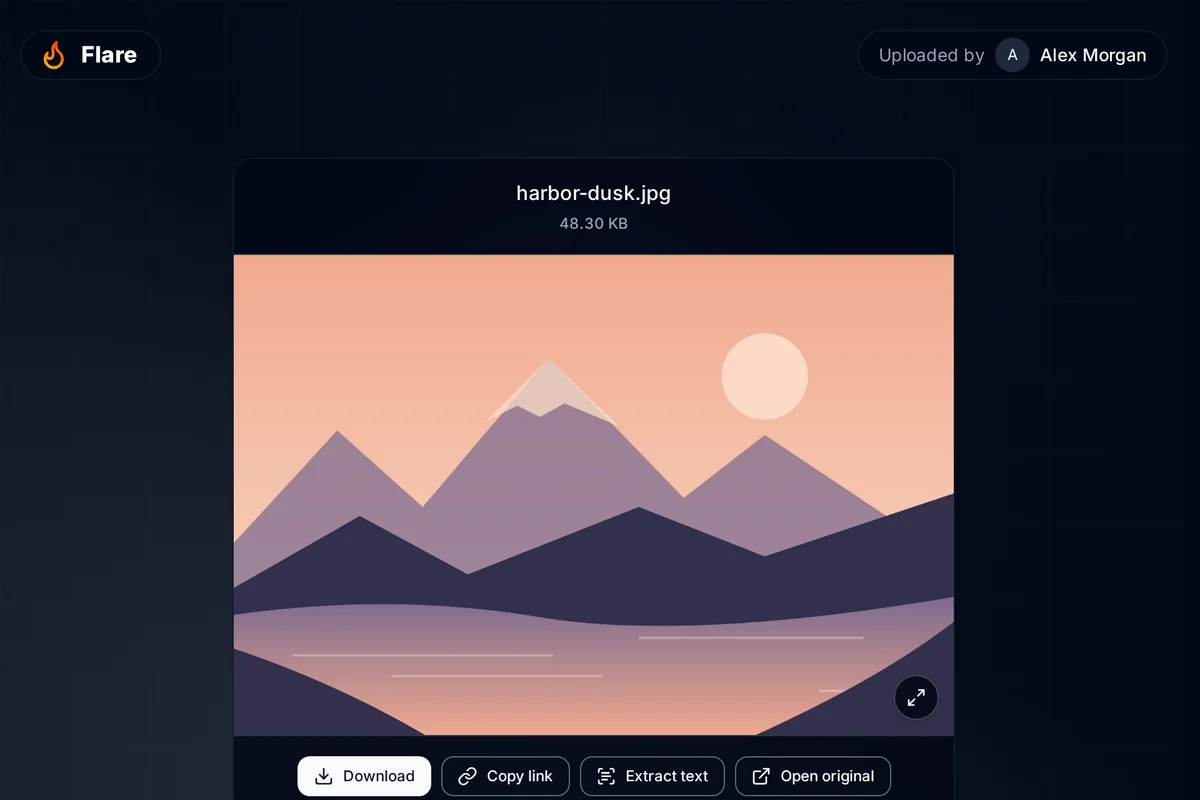
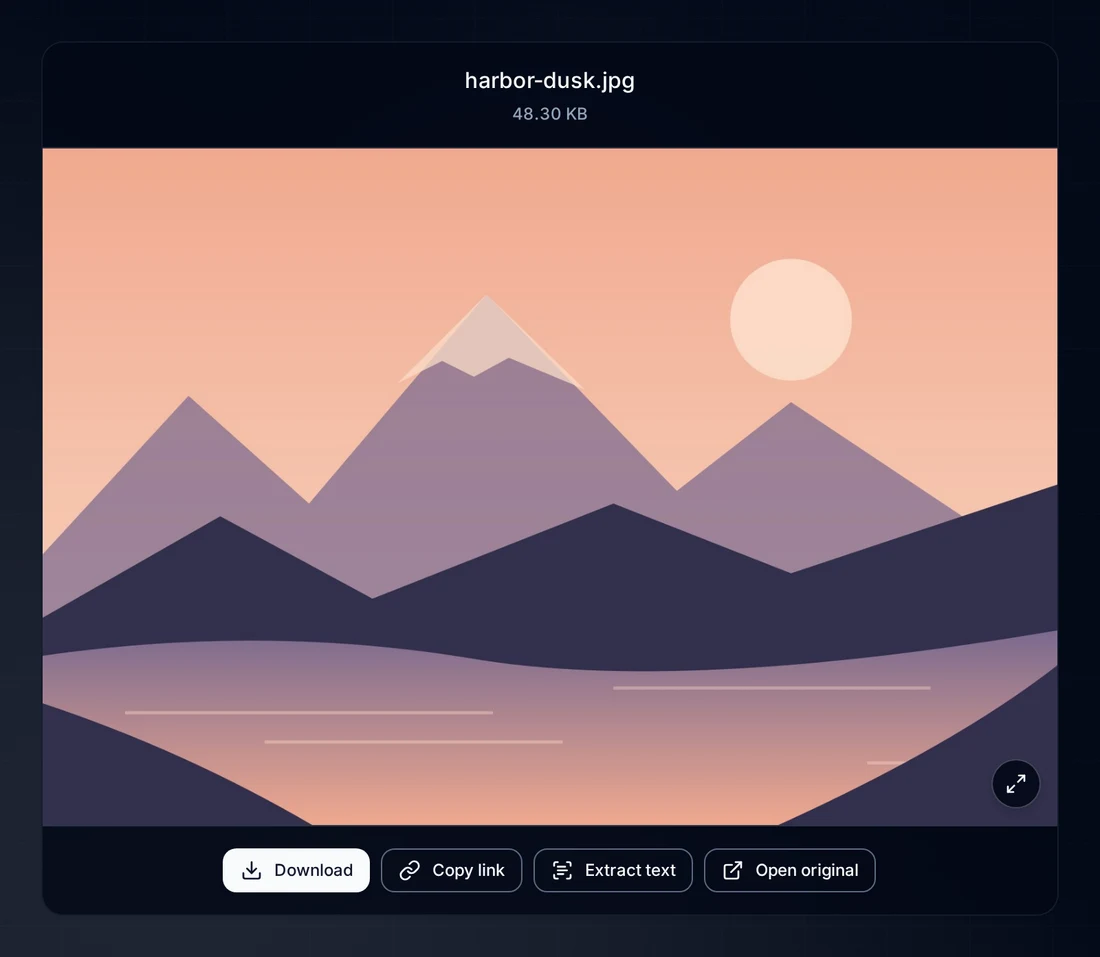
docs(readme): shorten the demo, crop the screens and move quick start up

diff --git a/README.md b/README.md
@@ -8,28 +8,30 @@
 [![Discord](https://img.shields.io/discord/1006668059936829511?style=flat-square&color=5865F2&logo=discord&logoColor=white)](https://discord.gg/mwVAjKwPus)
 [![MIT license](https://img.shields.io/github/license/FlintSH/Flare?style=flat-square)](LICENSE)
 
-[**Documentation**](https://flintsh.github.io/Flare/) · [Install](#quick-start) · [Demos](https://flintsh.github.io/Flare/demos.html) · [API](https://flintsh.github.io/Flare/api/) · [Discord](https://discord.gg/mwVAjKwPus)
+[**Documentation**](https://flintsh.github.io/Flare/) · [Install](#quick-start) · [Demos](https://flintsh.github.io/Flare/demos.html) · [API](https://flintsh.github.io/Flare/api/)
 
 </div>
 
 Flare runs on your server and your domain. Upload from the browser or straight from
-ShareX, Flameshot, Spectacle, iTake or a shell script, and get a link that previews
-properly wherever you paste it. All it needs is PostgreSQL and a container host.
+ShareX, Flameshot, Spectacle, iTake or a shell script, and share the link. All it
+needs is PostgreSQL and a container host.
 
 <p align="center">
   <a href="https://flintsh.github.io/Flare/demos.html">
-    <img src="./.github/assets/readme/demo.webp" width="100%" alt="Recording of Flare: a screenshot is dropped onto the file library, uploads with a progress bar, its link is copied, its share page opens, and then a Python paste is created and shown with syntax highlighting." />
+    <img src="./.github/assets/readme/demo.webp" width="100%" alt="Recording of Flare: a screenshot is dropped onto the file library, uploads with a progress bar, its link is copied, and its share page opens." />
   </a>
   <br />
-  <sub>Drop a file, copy the link, share it. Recorded in a real Flare instance with demo data.</sub>
+  <sub>Drop a file, copy the link, open it. Recorded in a real Flare instance with demo data.</sub>
 </p>
 
 ## What you get
 
-- **Uploads from your screenshot tool.** Download a ready-made config for ShareX,
-  Flameshot, Spectacle or iTake, or a Bash uploader. No API key to copy around.
-- **Share pages that look good.** Images, video, audio, PDFs, spreadsheets and code
-  open in a clean viewer and embed with rich previews in chat apps.
+- **Uploads from your screenshot tool.** Import a ready-made config for ShareX or
+  iTake, or download a capture script for Flameshot, Spectacle or Bash. Your upload
+  token is already filled in.
+- **Links that preview.** Image and video links unfurl in Discord, Slack and other
+  apps that read Open Graph tags. In the browser, images, video, audio, PDFs,
+  spreadsheets and code open in a clean viewer.
 - **Pastes and short links.** Share code with syntax highlighting, and shorten URLs
   under your own domain with click counts.
 - **A library that stays usable.** Folders, tags, search that includes text found in
@@ -46,42 +48,6 @@ properly wherever you paste it. All it needs is PostgreSQL and a container host.
 The [feature explorer](https://flintsh.github.io/Flare/features.html) covers each
 of these with a guide.
 
-## A closer look
-
-<table>
-  <tr>
-    <td colspan="2">
-      <picture>
-        <source media="(prefers-color-scheme: light)" srcset="./.github/assets/readme/library-light.webp" />
-        <img src="./.github/assets/readme/library-dark.webp" alt="Flare's file library with folders, filters and a grid of image previews" />
-      </picture>
-      <p align="center"><sub><b>Your library.</b> Search, filter and organize everything you upload.</sub></p>
-    </td>
-  </tr>
-  <tr>
-    <td width="50%">
-      <img src="./.github/assets/readme/share.webp" alt="A shared image page with download, copy link, extract text and open original buttons" />
-      <p align="center"><sub><b>Share pages.</b> What people see when they open your link.</sub></p>
-    </td>
-    <td width="50%">
-      <img src="./.github/assets/readme/code.webp" alt="A shared TypeScript file shown with line numbers and syntax highlighting" />
-      <p align="center"><sub><b>Code and pastes.</b> Highlighted by file extension.</sub></p>
-    </td>
-  </tr>
-  <tr>
-    <td width="50%">
-      <img src="./.github/assets/readme/screenshot-tools.webp" alt="The screenshot tools card in Profile, with downloads for ShareX, iTake, Flameshot, Spectacle and a Bash script" />
-      <p align="center"><sub><b>Screenshot tools.</b> One download sets up your capture app.</sub></p>
-    </td>
-    <td width="50%">
-      <img src="./.github/assets/readme/roles.webp" alt="The Roles page listing Admin, Moderator, Creator, Guest and Everyone with member counts" />
-      <p align="center"><sub><b>Roles.</b> Decide who can upload, share, moderate or manage.</sub></p>
-    </td>
-  </tr>
-</table>
-
-More walkthroughs and recordings are in the [interactive demos](https://flintsh.github.io/Flare/demos.html).
-
 ## Quick start
 
 **Railway:** start from the template, check the [Railway guide](https://flintsh.github.io/Flare/hosting/railway.html)
@@ -89,19 +55,22 @@ for storage and domain settings, then open `/setup`.
 
 [![Deploy on Railway](https://railway.com/button.svg)](https://railway.com/template/JVT41u?referralCode=R5s8WT)
 
-**Docker Compose:** in an empty directory, create a `.env` with two fresh secrets:
+**Docker Compose:**
 
-```sh
-umask 077
-printf 'POSTGRES_PASSWORD=%s\nNEXTAUTH_SECRET=%s\nNEXTAUTH_URL=http://localhost:3000\n' \
-  "$(openssl rand -hex 32)" "$(openssl rand -hex 32)" > .env
-```
+1. In an empty directory, create a `.env` with two fresh secrets:
 
-Save the `compose.yaml` below next to it, run `docker compose up -d`, and open
-`http://localhost:3000/setup`. The first account you create is the administrator.
+   ```sh
+   umask 077
+   printf 'POSTGRES_PASSWORD=%s\nNEXTAUTH_SECRET=%s\nNEXTAUTH_URL=http://localhost:3000\n' \
+     "$(openssl rand -hex 32)" "$(openssl rand -hex 32)" > .env
+   ```
+
+2. Expand **compose.yaml** below and save it in the same directory.
+3. Run `docker compose up -d`, open `http://localhost:3000/setup` and create your
+   account. The first account is the administrator.
 
 <details>
-<summary><code>compose.yaml</code></summary>
+<summary><b>compose.yaml</b></summary>
 
 ```yaml
 name: flare
@@ -150,19 +119,45 @@ and set `NEXTAUTH_URL` to your public address. The [Docker guide](https://flints
 covers pinning a version, existing databases and remote servers. Images are
 published as `flintsh/flare` and `ghcr.io/flintsh/flare` for AMD64 and ARM64.
 
+## A closer look
+
+<table>
+  <tr>
+    <td colspan="2">
+      <picture>
+        <source media="(prefers-color-scheme: light)" srcset="./.github/assets/readme/library-light.webp" />
+        <img src="./.github/assets/readme/library-dark.webp" alt="Flare's file library with folders, filters and a grid of image previews" />
+      </picture>
+      <p align="center"><sub><b>Your library.</b> Search, filter and organize everything you upload.</sub></p>
+    </td>
+  </tr>
+  <tr>
+    <td width="50%">
+      <img src="./.github/assets/readme/share.webp" alt="A shared image page with Download, Copy link, Extract text and Open original buttons" />
+      <p align="center"><sub><b>Share pages.</b> What people see when they open your link.</sub></p>
+    </td>
+    <td width="50%">
+      <img src="./.github/assets/readme/code.webp" alt="A shared TypeScript file shown with line numbers and syntax highlighting" />
+      <p align="center"><sub><b>Code and pastes.</b> Highlighted by file extension.</sub></p>
+    </td>
+  </tr>
+</table>
+
+More screens and recorded walkthroughs are in the [interactive demos](https://flintsh.github.io/Flare/demos.html).
+
 ## Documentation
 
-The [Flare handbook](https://flintsh.github.io/Flare/) has screenshots, recorded
-demos, and docs archived for every stable release.
+The [Flare handbook](https://flintsh.github.io/Flare/) covers using, running and
+extending Flare, with docs archived for every stable release.
 
-| I want to…                  | Read                                                                                                                                                                                                                                                                                             |
-| --------------------------- | ------------------------------------------------------------------------------------------------------------------------------------------------------------------------------------------------------------------------------------------------------------------------------------------------ |
-| Install and run Flare       | [Docker](https://flintsh.github.io/Flare/hosting/docker.html) · [Railway](https://flintsh.github.io/Flare/hosting/railway.html) · [Configuration](https://flintsh.github.io/Flare/hosting/configuration.html) · [Backups and upgrades](https://flintsh.github.io/Flare/hosting/maintenance.html) |
-| Set up my screenshot tool   | [Screenshot tools](https://flintsh.github.io/Flare/guide/screenshot-tools.html) · [Upload profiles](https://flintsh.github.io/Flare/guide/upload-profiles.html)                                                                                                                                  |
-| Share and organize files    | [Uploading](https://flintsh.github.io/Flare/guide/uploading.html) · [Sharing and privacy](https://flintsh.github.io/Flare/guide/sharing.html) · [Folders](https://flintsh.github.io/Flare/guide/folders.html)                                                                                    |
-| Run an instance for a group | [First-run setup](https://flintsh.github.io/Flare/admin/setup.html) · [Roles](https://flintsh.github.io/Flare/admin/roles.html) · [Single sign-on](https://flintsh.github.io/Flare/admin/sso.html) · [Email](https://flintsh.github.io/Flare/admin/email.html)                                   |
-| Build an integration        | [API](https://flintsh.github.io/Flare/api/) · [Webhooks](https://flintsh.github.io/Flare/api/webhooks.html) · [OpenAPI](https://flintsh.github.io/Flare/openapi.json)                                                                                                                            |
-| Fix a problem               | [Troubleshooting](https://flintsh.github.io/Flare/hosting/troubleshooting.html) · [Discord](https://discord.gg/mwVAjKwPus)                                                                                                                                                                       |
+| I want to…               | Start with                                                                                                                                |
+| ------------------------ | ----------------------------------------------------------------------------------------------------------------------------------------- |
+| Run Flare                | [Deployment](https://flintsh.github.io/Flare/hosting/) · [Backups and upgrades](https://flintsh.github.io/Flare/hosting/maintenance.html) |
+| Set up my screenshot app | [Screenshot tools](https://flintsh.github.io/Flare/guide/screenshot-tools.html)                                                           |
+| Share and organize files | [Sharing and privacy](https://flintsh.github.io/Flare/guide/sharing.html) · [Folders](https://flintsh.github.io/Flare/guide/folders.html) |
+| Run it for a group       | [First-run setup](https://flintsh.github.io/Flare/admin/setup.html) · [Roles](https://flintsh.github.io/Flare/admin/roles.html)           |
+| Build an integration     | [API](https://flintsh.github.io/Flare/api/) · [Webhooks](https://flintsh.github.io/Flare/api/webhooks.html)                               |
+| Fix a problem            | [Troubleshooting](https://flintsh.github.io/Flare/hosting/troubleshooting.html)                                                           |
 
 ## Community
 
